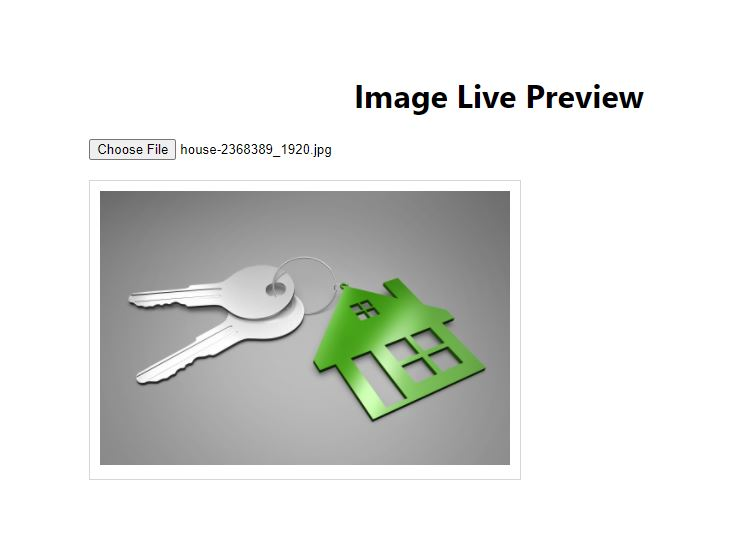
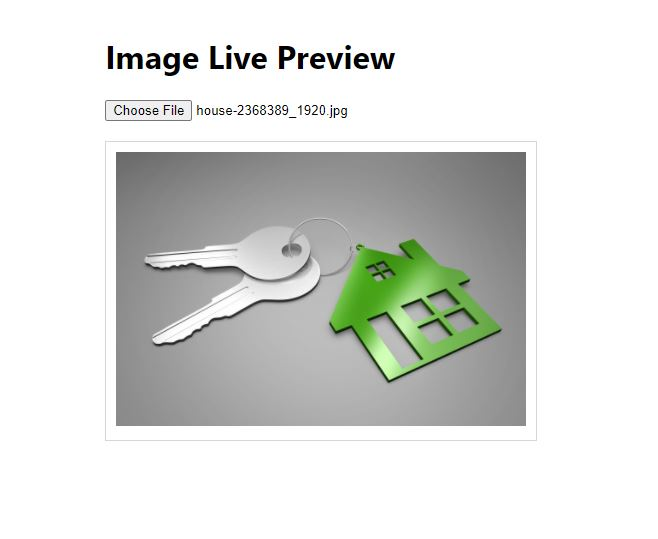
Changing heading styles

Changed region(s): [[0.1216, 0.0891, 0.8815, 0.8609]]

diff --git a/src/App.css b/src/App.css
@@ -3,10 +3,6 @@ form {
   margin: 5rem auto;
 }
 
-form h1 {
-  text-align: center;
-}
-
 form div.output {
   border: 1px solid rgb(218, 213, 213);
   margin-top: 20px;
